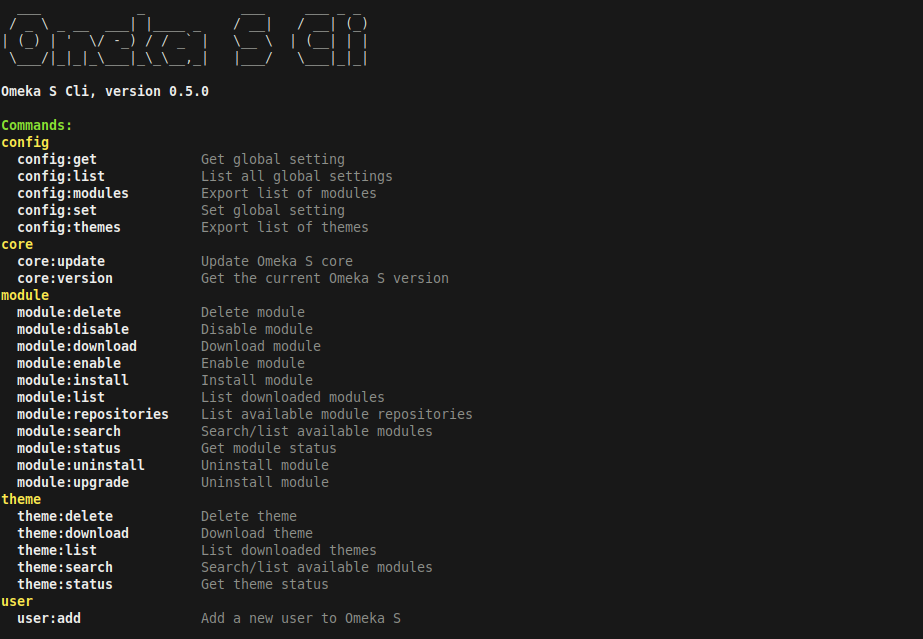
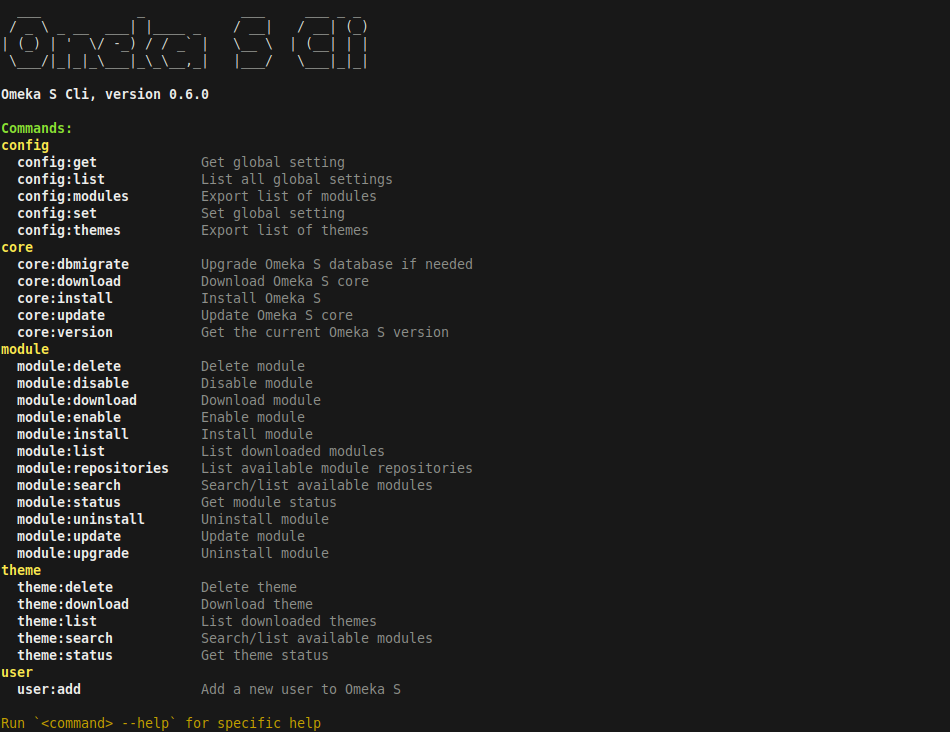
doc: update documentation for v0.6.0

Changed region(s): [[0.0, 0.0297, 0.5157, 1.0], [0.2124, 0.0297, 0.3944, 0.1189]]

diff --git a/README.md b/README.md
@@ -21,7 +21,9 @@ Omeka-S-CLI is a command line tool to manage Omeka S installs.
     - Get, set and list global settings
 - Core
     - Get current Omeka S version
+    - Download specific Omeka S version
     - Update Omeka S to the latest version
+    - Perform database migrations
 
 ## Usage
 
@@ -96,8 +98,8 @@ Theme 'freedom' successfully downloaded.
 
 ## Requirements
 
-- PHP (>= 8) with PDO_MySQL and Zip enabled
-- Omeka S (>= 3.2)
+- PHP (>= 8.1) with PDO_MySQL and Zip enabled
+- Omeka S (>= 4)
 
 ## Installation
 
@@ -121,10 +123,11 @@ box compile
 
 ## To do
 
-- [ ] Core management (version, latest-version, install, update)
 - [ ] Download/update multiple modules at once
 - [ ] Module dependency checking
-- [ ] Config management (list, get, set)
+- [ ] Add support for resource templates
+- [ ] Add support for sites and site pages
+- [ ] Add support for API keys
 
 ## Credits
 
